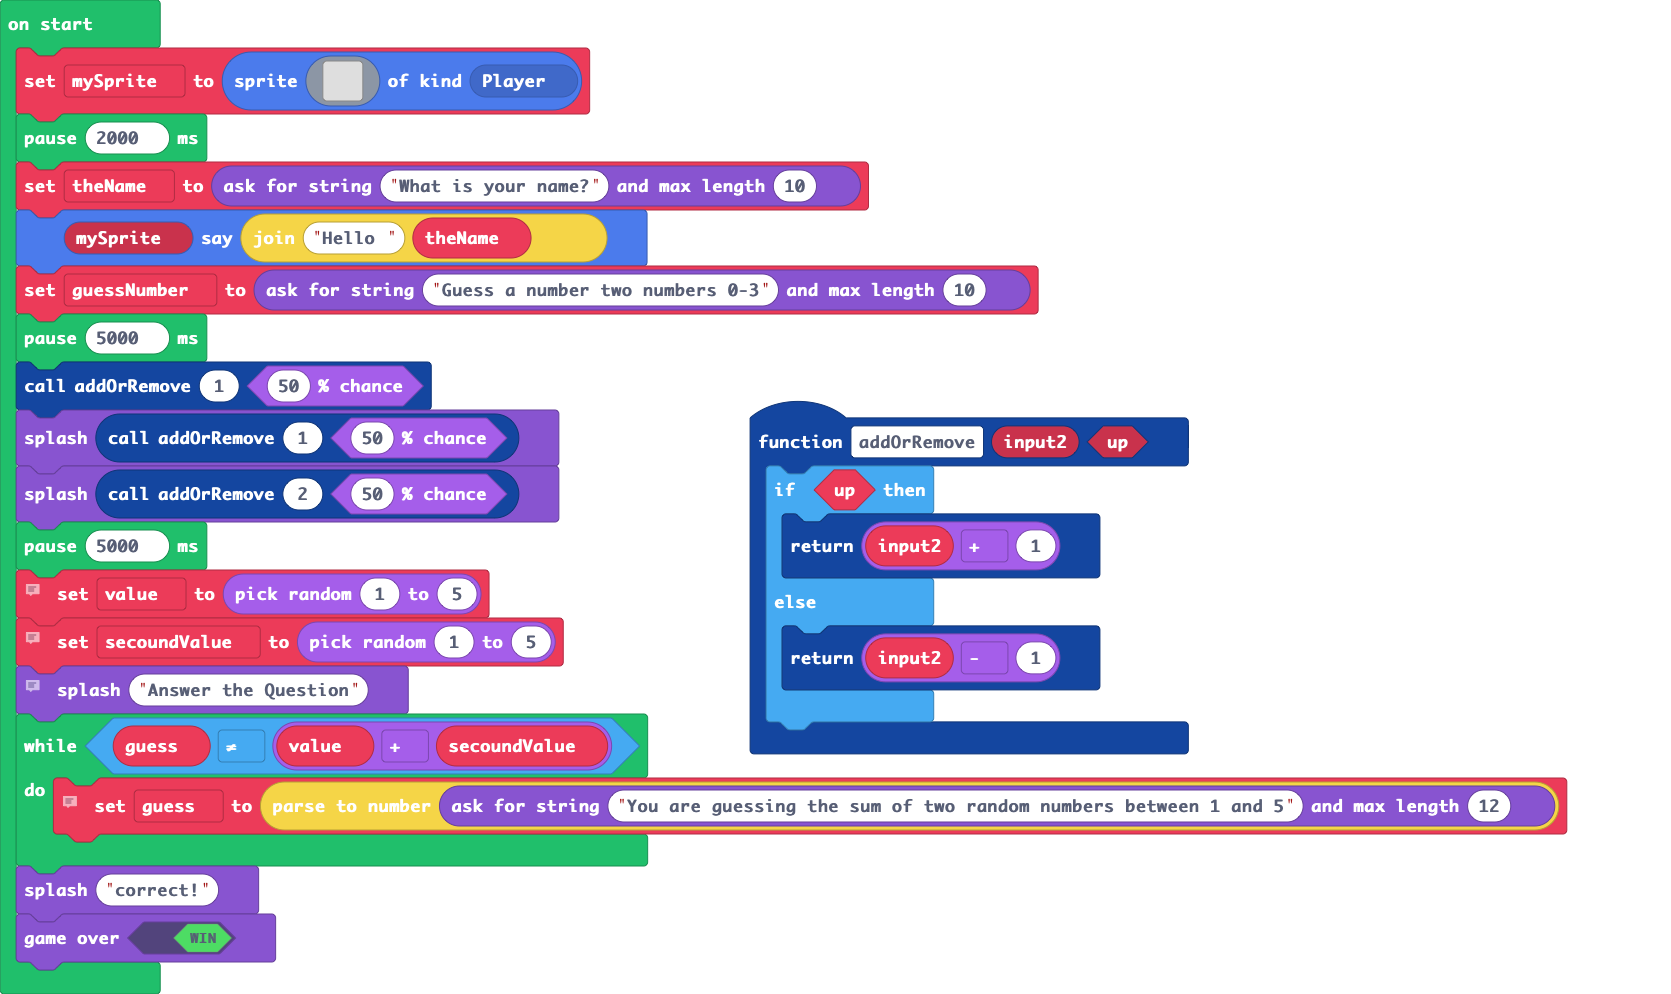
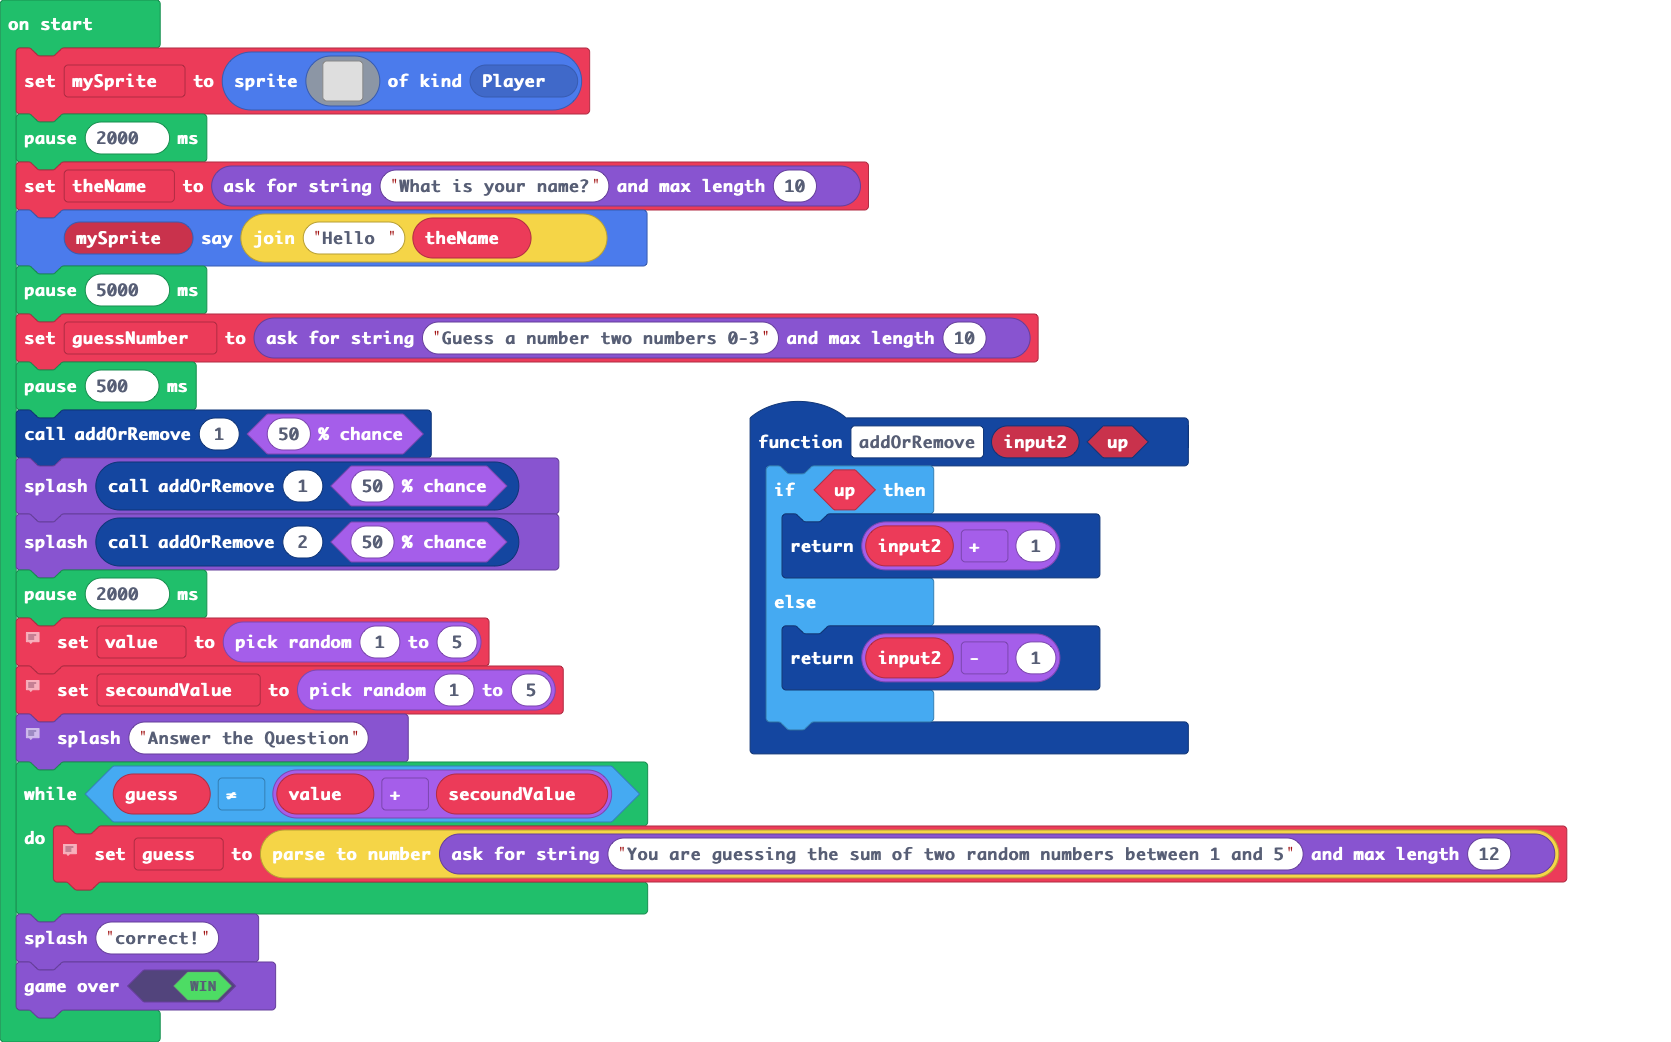
Update main.blocks, main.ts

Changed region(s): [[0.0, 0.0, 0.9336, 0.998]]

diff --git a/main.ts b/main.ts
@@ -27,12 +27,13 @@ let mySprite = sprites.create(img`
 pause(2000)
 let theName = game.askForString("What is your name?", 10)
 mySprite.sayText("Hello " + theName)
-let guessNumber = game.askForString("Guess a number two numbers 0-3", 10)
 pause(5000)
+let guessNumber = game.askForString("Guess a number two numbers 0-3", 10)
+pause(500)
 addOrRemove(1, Math.percentChance(50))
 game.splash(addOrRemove(1, Math.percentChance(50)))
 game.splash(addOrRemove(2, Math.percentChance(50)))
-pause(5000)
+pause(2000)
 // picks a random number between 1 and 5
 let value = randint(1, 5)
 // picks a value at random between 1 and 5
